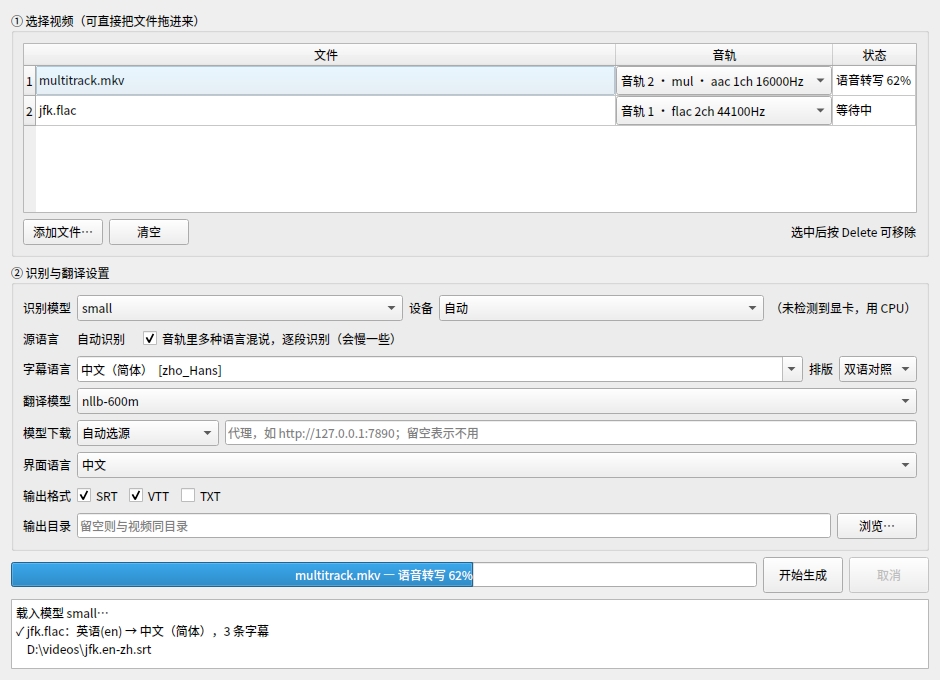
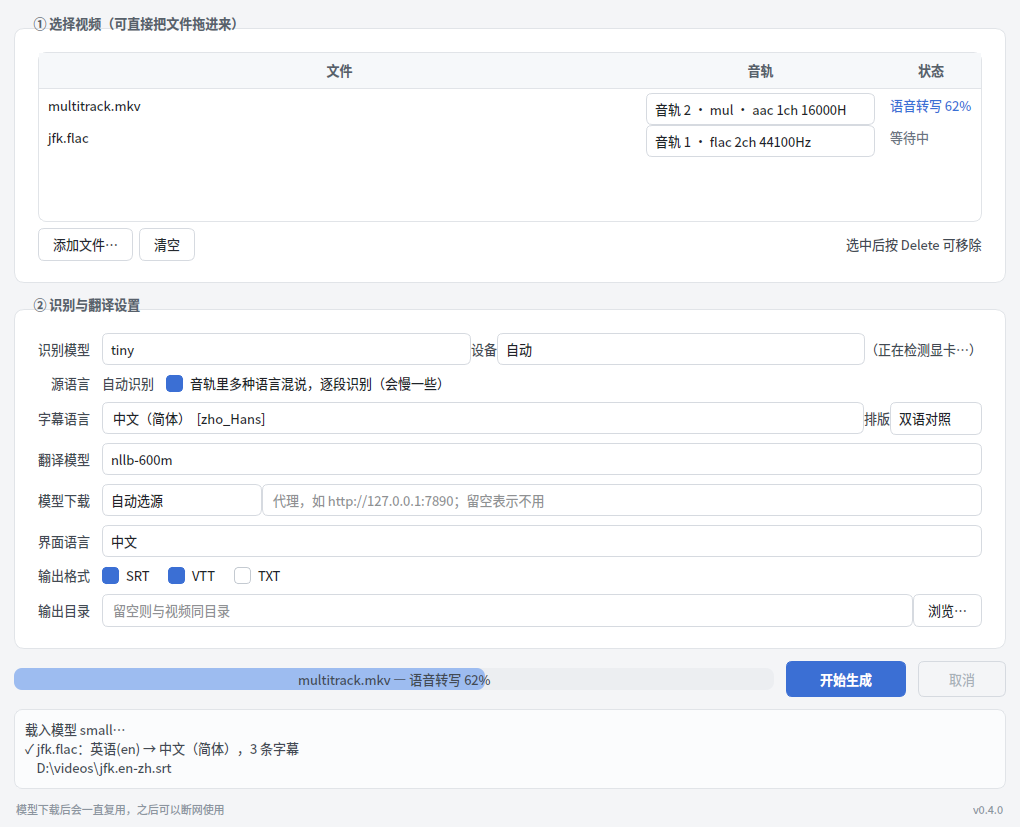
docs: 记下闪退的根因与这一轮的界面改动
Claude-Session: https://claude.ai/code/session_01JmKAdXbtck3X7fQ4d2TnqL

diff --git a/docs/design.md b/docs/design.md
@@ -228,7 +228,34 @@ v0.2.0 我凭「排掉用不到的 Qt 模块」就宣称包更小，结果一个
 - 整批交给 CTranslate2 自己分（`max_batch_size`）：比排序再快 6%，但一次调用中间报不出
   进度，刚修好的「看起来卡死」又会回来，不划算
 
-### 3.11 其它
+### 3.11 长视频为什么会闪退：内存跟着片长涨
+
+v0.3.0 报上来的现象很具体：状态列停在「识别语种 10%」、进度条 9%，然后进程直接没了，
+**日志一行都没有**。这两个数字对上了唯一一处代码——`reporter.done("识别语种")`，也就是
+语种判定刚返回、转写正要开始的那一瞬间。而「没有日志」说明它不是 Python 异常（异常会被
+兜底记下来），只能是原生层直接 abort 或被系统干掉。
+
+量一下就清楚了。`BatchedInferencePipeline` 会先把整条音轨按 VAD 切块、逐块算梅尔特征、
+再 `np.stack` 成一个大数组，这些东西同时压在内存里，**而且随片长线性增长**（tiny 模型，
+只量到出第一条字幕为止）：
+
+| 片长 | 15 分钟 | 30 分钟 | 1 小时 | 2 小时 |
+| --- | --- | --- | --- | --- |
+| 峰值（超出模型本身） | 0.77 GB | 0.80 GB | 1.04 GB | **1.75 GB** |
+
+再叠上模型自己占的几百 MB 到 2GB（`small` 是默认，`large-v3-turbo` 更大，而且它是 128 个
+梅尔通道、特征还要再大一半），8GB 的机器跑两小时的片子就到头了。C++ 里分配失败是
+`abort`，连 Python 异常都没有——正好就是「闪退、没日志」。
+
+改法是**按窗口切开转写**（`WINDOW_SECONDS`，10 分钟一段，时间戳平移回整轨坐标系）：
+2 小时的峰值从 1.75GB 降到 0.67GB 且不再随片长涨，剩下的增长只是音轨本身。窗口再切小
+（5 分钟、2.5 分钟）没有进一步收益，说明常数项在别处。短于一个窗口的音轨走的还是原来那
+条路，结果一字不差。
+
+同时补了一份**流水账日志**：解码完成、转写第几个窗口、当时的可用内存，每行都落盘。真被
+系统干掉时，最后一行就是唯一的线索——不用再让用户复现一次。
+
+### 3.12 其它
 
 - `condition_on_previous_text=False`：长视频一旦出现幻觉会以上文为条件自我强化成复读，
   牺牲少量上下文连贯性换稳定性

diff --git a/README.en.md b/README.en.md
@@ -12,6 +12,7 @@ the language you want. Everything runs locally — nothing is uploaded.
 - 🈯 **Any target language** — 99 of them, written out as translation / source / both
 - 📄 **SRT / VTT / TXT**, batch processing, cancel at any time
 - 🌐 **Chinese and English interface** — follows your system language, switchable at any time
+- 🧳 **Truly portable** — settings and logs live next to the executable; copy the folder, keep everything
 - 🔌 **Works offline** — after the first download the models are reused from the local cache
 
 ## Quick start
@@ -34,7 +35,9 @@ The interface follows your system language and can be switched to 中文 or Engl
 **Upgrading**: just unpack the new version over the old directory. On startup the program
 removes whatever the previous version left behind, using the file list shipped with the
 build. The model cache lives in your user folder, outside the program directory, so nothing
-has to be downloaded again.
+has to be downloaded again, and `settings.json` is kept.
+
+Only one copy runs at a time; opening it again tells you it is already running.
 
 ![Interface](docs/screenshot.en.png)
 
@@ -83,12 +86,13 @@ order:
    that has access and copy the whole `%USERPROFILE%\.cache\huggingface` folder to the same
    place on this one.
 
-The settings live in `%APPDATA%\subtitle-tool\settings.json` and are shared with the command
+The settings live in `settings.json` next to the executable and are shared with the command
 line. Once a model has been downloaded it is loaded from the local cache and the program
 stops going online for it.
 
-If the program ever quits unexpectedly, `%APPDATA%\subtitle-tool\subtitle-tool.log` holds the
-traceback — please attach it when reporting the problem.
+`subtitle-tool.log`, also next to the executable, keeps a running trace of each job (decoding,
+which window is being transcribed, free memory at the time) — please attach it when reporting
+a problem.
 
 ## Command line
 
